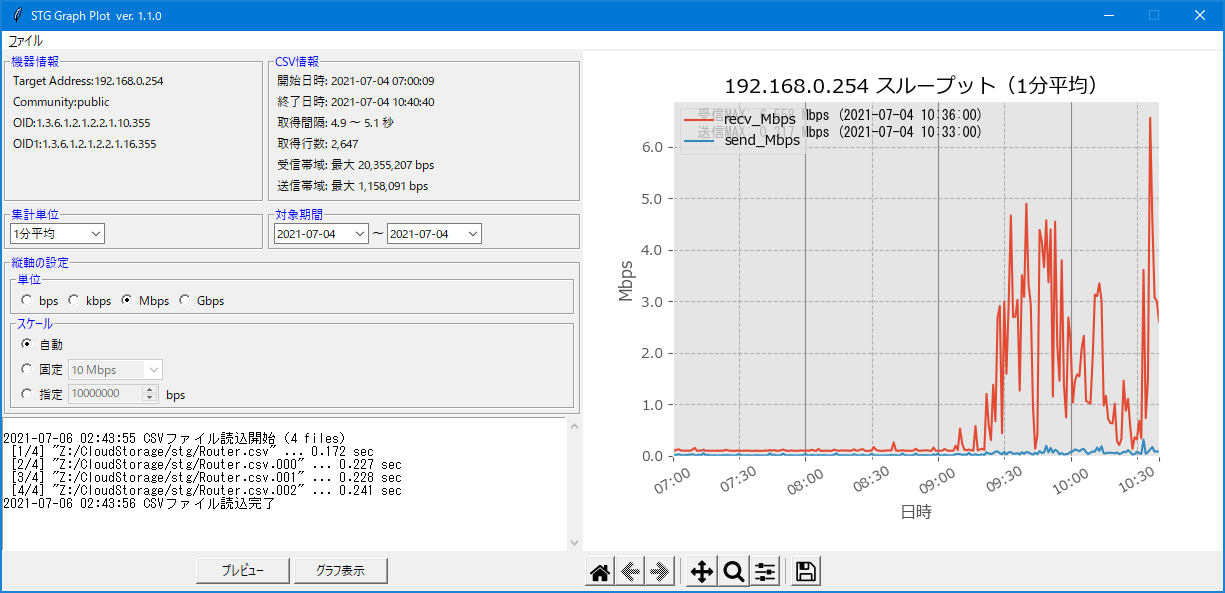
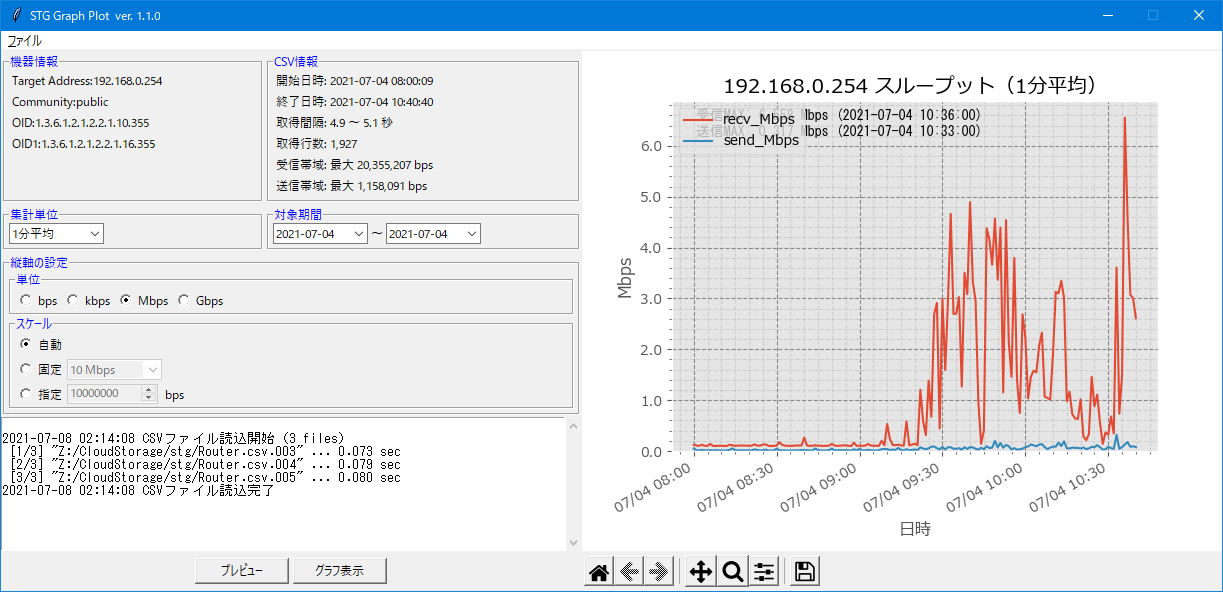
バグ修正、グラフの見た目変更
・不正なデータの検出の判定はuptime（centisec）が0かどうかで判定する方法に変更
・datetimeindexにしてからDuplicateの重複削除すると、columnが一致する行は削除される
　ので削除タイミングを変更した。（削除後にdatetimeindexを設定）
・DataFrameの1行目を削除する際のインデックス指定の不具合を修正
・X軸の日時表示の形式を'%m/%d %H:%M'に変更
　（かなりの苦労、df.plot 時に x_compat=True の指定が必要、詳しくはググれ）
・X軸とY軸のminor tickと補助線を表示するように変更

diff --git a/stg_graph_plot.py b/stg_graph_plot.py
@@ -8,12 +8,14 @@ import tkinter.scrolledtext as tkst
 import tkinter.ttk as ttk
 from tkinter import filedialog, messagebox
 
+import matplotlib.dates as mdates
 import matplotlib.pyplot as plt
 import pandas as pd
 # from matplotlib.backend_bases import key_press_handler
 from matplotlib.backends.backend_tkagg import (FigureCanvasTkAgg,
                                                NavigationToolbar2Tk)
 from matplotlib.figure import Figure
+from matplotlib.ticker import AutoMinorLocator
 
 __version__ = '1.1.0'
 plt.style.use('ggplot')
@@ -463,11 +465,13 @@ class ButtonFrame(tk.Frame):
                 encoding='SHIFT-JIS',                       # 文字コードを指定
                 header=1,                                   # 0行目（最初の行）を読み飛ばす
                 names=['date', 'uptime', 'recv', 'send'],   # カラム名を設定
-                usecols=[0, 2, 3],                          # 'uptime' は取り込まない
             )
-            # STGのバグでAugがAvgになっているので、置換して日時認識しインデックスにする
+            # STGのバグでAugがAvgになっているので、置換して日時認識する
             df['date'] = pd.to_datetime(df['date'].str.replace('Avg', 'Aug'))
-            df.set_index('date', inplace=True)
+            # uptimeが0の行は読み取り失敗のため削除する
+            df.drop(df.query('uptime == 0').index, inplace=True)
+            # uptimeの列を削除する
+            df.drop('uptime', axis=1, inplace=True)
             self.df = pd.concat([self.df, df])
             self.MsgFrame.write(f'{t.laptime:.3f} sec\n')
 
@@ -478,12 +482,12 @@ class ButtonFrame(tk.Frame):
         # self.MsgFrame.write(f' ファイル出力先：{os.getcwd()}\n')
         # 重複行を削除する
         self.df.drop_duplicates(inplace=True)
+        # 'date'をインデックスにする
+        self.df.set_index('date', inplace=True)
         # インデックス順（日時）でソートする
         self.df.sort_index(inplace=True)
         # 1行目を削除する（取得値が非常に大きい場合があるため）
-        self.df.drop(df.index[0], inplace=True)
-        # 不正データの行を削除する
-        self.df.drop(self.df.query('send == 0 & recv == 0').index, inplace=True)
+        self.df.drop(self.df.index[0], inplace=True)
         # delta_timeを計算する
         self.df['delta_time'] = self.df.index.to_series().diff().dt.total_seconds()
 
@@ -573,12 +577,15 @@ class ButtonFrame(tk.Frame):
     def _adjust_axes(self, ax, axis_unit, div_unit, r_max, s_max):
         # X軸ラベル
         ax.set_xlabel('日時')
+        ax.xaxis.set_major_formatter(mdates.DateFormatter('%m/%d %H:%M'))
+        ax.xaxis.set_minor_locator(AutoMinorLocator(6))
         # Y軸ラベル
         ax.set_ylabel(axis_unit)
         ax.yaxis.set_major_formatter(plt.FuncFormatter(lambda x, loc: f'{x:,.1f}'))
-        ax.grid(b=True, axis='y', which=tk.BOTH, color='gray', linestyle='--', alpha=0.5)
-        ax.grid(b=True, axis='x', which='major', color='gray', linestyle='-', alpha=0.9)
-        ax.grid(b=True, axis='x', which='minor', color='gray', linestyle='--', alpha=0.5)
+        ax.yaxis.set_minor_locator(AutoMinorLocator())
+        # グリッド線
+        ax.grid(b=True, axis='both', which='major', color='gray', linestyle='--', alpha=0.9)
+        ax.grid(b=True, axis='both', which='minor', color='gray', linestyle='--', alpha=0.2)
         # Y軸のスケール
         if var_axis_type.get() == 'auto':
             ax.set_ylim(0,)
@@ -599,7 +606,8 @@ class ButtonFrame(tk.Frame):
             grid=True,
             y=[recv_unit, send_unit],
             title=f'{self.target_ip} スループット（{var_mean_time.get()}）',
-            rot=30
+            rot=30,
+            x_compat=True
             )
 
         # axesの見栄えを調整する
@@ -620,7 +628,8 @@ class ButtonFrame(tk.Frame):
             grid=True,
             y=[recv_unit, send_unit],
             title=f'{self.target_ip} スループット（{var_mean_time.get()}）',
-            rot=30
+            rot=30,
+            x_compat=True
             )
 
         # axesの見栄えを調整する
@@ -724,7 +733,7 @@ if __name__ == '__main__':
     # プレビュー表示用のcanvasの作成
     fig = Figure()
     ax = fig.add_subplot()
-    ax.grid(b=True, axis=tk.BOTH, which=tk.BOTH, color='gray', linestyle='--', alpha=0.5)
+    ax.grid(b=True, axis='both', which='both', color='gray', linestyle='--', alpha=0.5)
     fig.subplots_adjust(top=0.9, bottom=0.19, left=0.14)
 
     canvas = FigureCanvasTkAgg(fig, master=root)
